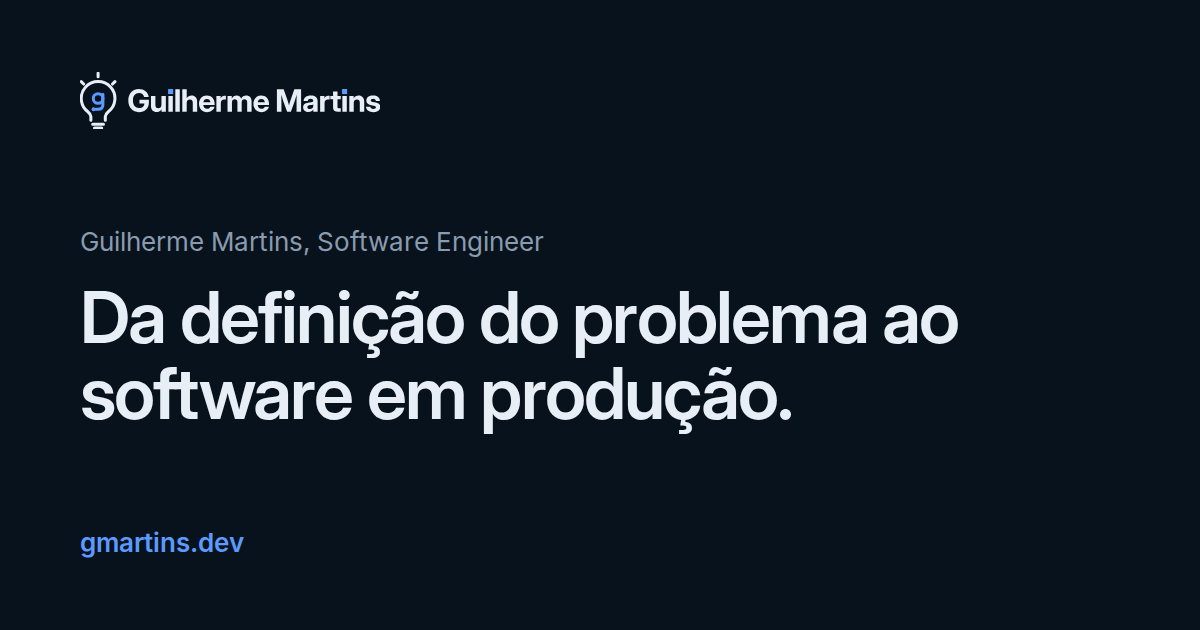
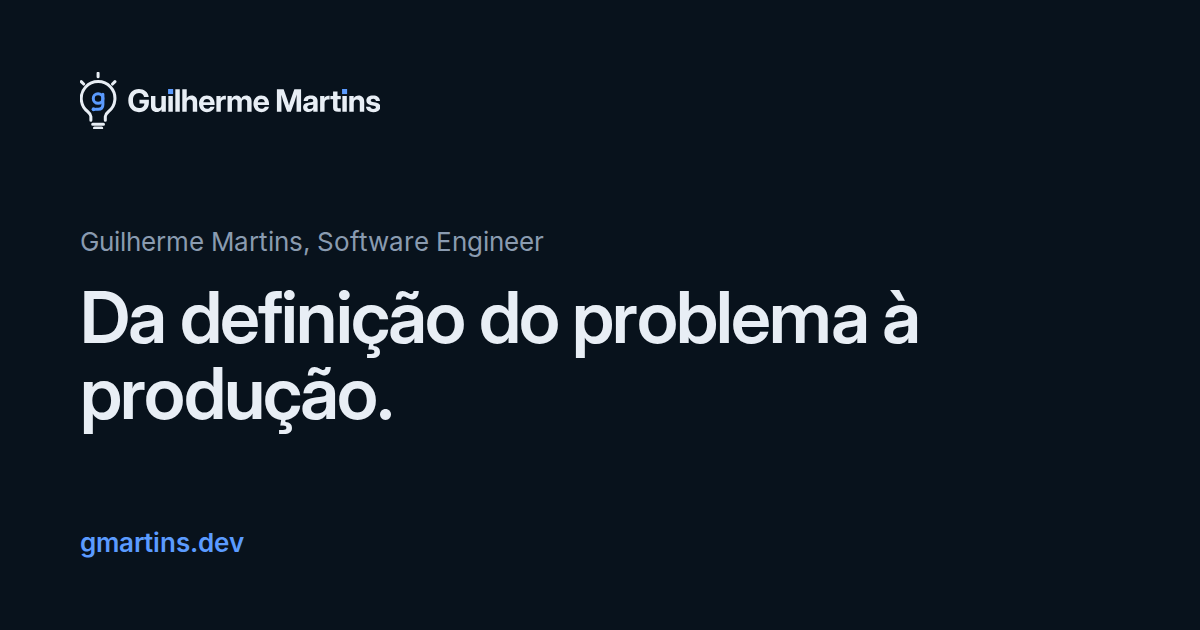
feat(content): update the hero intro, identity map order and principles
- New hero intro in both languages (Brazilian and international teams;
  fintech, SaaS, AI, healthcare, real estate, creative technology, all
  backed by the experience list). The PT headline becomes "Da definição
  do problema à produção.", as on the PT social card master.
- Identity map order: Full-stack Engineering, Product Engineering,
  Software Architecture, Agentic Engineering, AI-powered Products,
  Communication & Collaboration. AI-powered Features is renamed AI-powered
  Products (PT: Produtos com IA integrada).
- New closing line: Product thinking · Engineering rigor · AI leverage ·
  Human judgment, with a new grounding sentence.
- Positioning docs follow the same changes; the PT home social card is
  re-rendered.

Changed region(s): [[0.0617, 0.573, 0.6783, 0.6937], [0.7708, 0.4825, 0.8017, 0.5429], [0.74, 0.4524, 0.7708, 0.4825]]

diff --git a/src/content/copy.ts b/src/content/copy.ts
@@ -164,18 +164,18 @@ export const copy = {
 	home: {
 		headline: {
 			en: "From problem definition to production.",
-			"pt-BR": "Da definição do problema ao software em produção.",
+			"pt-BR": "Da definição do problema à produção.",
 		},
 		intro: {
 			en: [
 				"I'm Guilherme Martins, a Software Engineer focused on product engineering and software architecture.",
 				"I build and evolve full-stack products, integrating AI capabilities where they make sense. I use coding agents throughout the development lifecycle in a spec-driven workflow with scoped tasks, tests, and human review.",
-				"I've worked with teams in Brazil and the UK across fintech, AI-driven cybersecurity, and healthcare, among others.",
+				"I've partnered with Brazilian and international teams across diverse domains, including fintech, SaaS, AI-powered solutions, healthcare, real estate, and creative technology.",
 			],
 			"pt-BR": [
-				"Sou Guilherme Martins, Software Engineer com foco em engenharia de produto e arquitetura de software.",
+				"Sou Guilherme Martins, engenheiro de software com foco em engenharia de produto e arquitetura de software.",
 				"Construo e evoluo produtos full-stack, integrando funcionalidades de IA quando fazem sentido. Uso coding agents ao longo do ciclo de desenvolvimento, em um processo orientado por especificações, com tarefas delimitadas, testes e revisão humana.",
-				"Já trabalhei com equipes no Brasil e no Reino Unido em fintech, cibersegurança com IA e saúde, entre outros.",
+				"Já colaborei com equipes brasileiras e internacionais em diferentes áreas, incluindo fintech, SaaS, soluções com IA, saúde, mercado imobiliário e tecnologia criativa.",
 			],
 		},
 		workCta: { en: "See the cases", "pt-BR": "Ver cases" },
@@ -207,6 +207,16 @@ export const copy = {
 				"pt-BR": "Mapa de identidade profissional",
 			},
 			dimensions: [
+				{
+					title: {
+						en: "Full-stack Engineering",
+						"pt-BR": "Engenharia full-stack",
+					},
+					line: {
+						en: "Frontend · backend · APIs · system integration",
+						"pt-BR": "Frontend · backend · APIs · integração de sistemas",
+					},
+				},
 				{
 					title: {
 						en: "Product Engineering",
@@ -242,22 +252,12 @@ export const copy = {
 				},
 				{
 					title: {
-						en: "AI-powered Features",
-						"pt-BR": "Funcionalidades com IA",
+						en: "AI-powered Products",
+						"pt-BR": "Produtos com IA integrada",
 					},
 					line: {
 						en: "LLM integration · tool use · guardrails",
 						"pt-BR": "Integração com LLMs · tool use · guardrails",
-					},
-				},
-				{
-					title: {
-						en: "Full-stack Engineering",
-						"pt-BR": "Engenharia full-stack",
-					},
-					line: {
-						en: "Frontend · backend · APIs · system integration",
-						"pt-BR": "Frontend · backend · APIs · integração de sistemas",
 					},
 				},
 				{
@@ -273,12 +273,14 @@ export const copy = {
 				},
 			],
 			principles: {
-				en: "Product thinking · engineering rigor · human judgment",
-				"pt-BR": "Visão de produto · rigor de engenharia · julgamento humano",
+				en: "Product thinking · Engineering rigor · AI leverage · Human judgment",
+				"pt-BR":
+					"Visão de produto · Rigor de engenharia · IA como acelerador · Julgamento humano",
 			},
 			grounding: {
-				en: "Every concept is grounded in engineering practice.",
-				"pt-BR": "Cada conceito se apoia na prática de engenharia.",
+				en: "AI amplifies my capabilities; critical thinking and experience guide my decisions.",
+				"pt-BR":
+					"A IA amplia minhas capacidades; o pensamento crítico e a experiência orientam minhas decisões.",
 			},
 		},
 	},

diff --git a/e2e/pages.ts b/e2e/pages.ts
@@ -16,7 +16,7 @@ export const pages = [
 	{
 		path: "/pt-br",
 		lang: "pt-BR",
-		h1: "Da definição do problema ao software em produção.",
+		h1: "Da definição do problema à produção.",
 	},
 	{ path: "/pt-br/cases", lang: "pt-BR", h1: "Cases" },
 	{

diff --git a/docs/positioning.md b/docs/positioning.md
@@ -52,23 +52,24 @@ verification and accountability stay human.**
 ## Identity map: six dimensions
 
 Reference for the hero art and for brand consistency. **Software Engineer** is
-the single professional identity at the center: Guilherme Martins, Software
-Engineer, Belo Horizonte, Brazil. The six branches are complementary
+the single professional identity at the center, shown by the portrait alone
+(the hero intro names him). The six branches are complementary
 dimensions of the same engineering practice, not separate titles. The goal is
 not to list every technology or skill, but to say what kind of engineer he is,
 how he approaches software and what he brings to a team.
 
 | Dimension | Descriptor (short line for art) | What it means |
 | --- | --- | --- |
+| Full-stack Engineering | Frontend · backend · APIs · system integration | Software across application layers, connecting interfaces, services, data and external systems with the whole product experience in mind |
 | Product Engineering | Problem framing · end-to-end ownership · product iteration | Understanding problems before implementing solutions, owning the product lifecycle and improving software from user needs and product goals |
 | Software Architecture | System design · technical trade-offs · reliability | Maintainable systems, clear boundaries and integrations, and deliberate decisions on consistency, reliability and long-term evolution |
 | Agentic Engineering | Coding agents · spec-driven workflows · verification | Coding agents across the lifecycle through explicit specifications, bounded tasks, tests, quality gates, verification and human review |
-| AI-powered Features | LLM integration · tool use · guardrails | AI capabilities integrated into products, connecting models and tools to real workflows with controls, permissions and human oversight |
-| Full-stack Engineering | Frontend · backend · APIs · system integration | Software across application layers, connecting interfaces, services, data and external systems with the whole product experience in mind |
+| AI-powered Products | LLM integration · tool use · guardrails | AI capabilities integrated into products, connecting models and tools to real workflows with controls, permissions and human oversight |
 | Communication & Collaboration | International teams · fluent English · clear communication | Working across disciplines and cultures, communicating technical ideas and trade-offs clearly, and building shared understanding in international teams |
 
-Closing line for the art: *Product thinking · engineering rigor · human
-judgment.* Every concept is grounded in engineering practice.
+Closing line for the art: *Product thinking · Engineering rigor · AI
+leverage · Human judgment.* AI amplifies my capabilities; critical thinking
+and experience guide my decisions.
 
 **Cross-cutting principles**
 
@@ -76,13 +77,15 @@ judgment.* Every concept is grounded in engineering practice.
   outcomes.
 - **Engineering rigor:** make deliberate technical decisions and verify what
   is delivered.
+- **AI leverage:** use AI to amplify what he can deliver, with critical
+  thinking and experience deciding what ships.
 - **Human judgment:** take responsibility for decisions, quality and the use
   of AI.
 - **Collaborative ownership:** communicate clearly, work across boundaries
   and move shared work forward.
 
 **Visual hierarchy.** Product Engineering and Software Architecture set the
-core positioning. Agentic Engineering and AI-powered Features carry the
+core positioning. Agentic Engineering and AI-powered Products carry the
 distinctive capabilities. Full-stack Engineering shows implementation breadth.
 Communication & Collaboration is the human and international dimension. The
 art emphasizes branch names, keeps each supporting line short and leaves out
@@ -199,8 +202,8 @@ The Brazilian Portuguese sentences, adapted to that market, are in
 
 | Element | Where | Guidance |
 | --- | --- | --- |
-| Title, metadata, intro, social cards | `copy.meta` and `copy.home` in `src/content/copy.ts` | Software Engineer as the identity; product engineering, architecture, agentic engineering and AI integration in plain language. The intro names Brazil and the UK only; Spain stays in the International context evidence |
-| Hero identity map | `copy.home.identityMap`, rendered by `src/components/identity-map.tsx` | The six dimensions above, in their order; the center reuses `profile.name`, `copy.meta.role` and `profile.location`. Communication & Collaboration stays one of the six, never a separate track. Layout rules in `DESIGN.md` |
+| Title, metadata, intro, social cards | `copy.meta` and `copy.home` in `src/content/copy.ts` | Software Engineer as the identity; product engineering, architecture, agentic engineering and AI integration in plain language. The intro says "Brazilian and international teams" and names domains backed by the experience list (fintech, SaaS, AI, healthcare, real estate, creative technology) |
+| Hero identity map | `copy.home.identityMap`, rendered by `src/components/identity-map.tsx` | The six dimensions above, in their order (Full-stack Engineering first, owner's decision 2026-10-27); the center is the portrait only, with no caption. Communication & Collaboration stays one of the six, never a separate track. Layout rules in `DESIGN.md` |
 | Capabilities | `copy.capabilities` | Order: product engineering, software architecture, agentic engineering, AI-powered product features |
 | Case studies | `caseStudies` in `src/content/work.ts` | Order (owner's decision, 2026-10-25): the anonymized AI-first platform (current professional work: architecture and AI integration), Priorize.me (product ownership), sdd-agentic-flow (agentic engineering). The payments API, a hiring challenge, is under More projects; the architecture capability links to it |
 | Experience and education | `experience` and `education` in `src/content/profile.ts` | Actual role titles; the specialization in progress; client work anonymous where needed |

diff --git a/docs/positioning.pt-br.md b/docs/positioning.pt-br.md
@@ -49,8 +49,8 @@ responsabilidade continuam humanos.**
 ## Mapa de identidade: seis dimensões
 
 Referência para a arte do hero e para a consistência da marca. **Software
-Engineer** é a única identidade profissional, no centro: Guilherme Martins,
-Software Engineer, Belo Horizonte, Brasil. Os seis ramos são dimensões
+Engineer** é a única identidade profissional, no centro, representada só pelo
+retrato (a intro do hero traz o nome). Os seis ramos são dimensões
 complementares da mesma prática de engenharia, não títulos separados. O
 objetivo não é listar toda tecnologia ou habilidade, e sim dizer que tipo de
 engenheiro ele é, como aborda software e o que leva para um time. A tabela
@@ -61,15 +61,18 @@ do dono em 2026-10-27), mantendo em inglês os termos que o mercado usa assim
 
 | Dimensão | Descritor (linha curta da arte) | O que significa |
 | --- | --- | --- |
+| Full-stack Engineering | Frontend · backend · APIs · system integration | Software em todas as camadas da aplicação, conectando interfaces, serviços, dados e sistemas externos com a experiência completa do produto em mente |
 | Product Engineering | Problem framing · end-to-end ownership · product iteration | Entender o problema antes de implementar a solução, assumir o ciclo de vida do produto e evoluir o software a partir das necessidades dos usuários e dos objetivos do produto |
 | Software Architecture | System design · technical trade-offs · reliability | Sistemas sustentáveis, fronteiras e integrações claras e decisões deliberadas sobre consistência, confiabilidade e evolução de longo prazo |
 | Agentic Engineering | Coding agents · spec-driven workflows · verification | Coding agents ao longo do ciclo, com especificações explícitas, tarefas delimitadas, testes, quality gates, verificação e revisão humana |
-| AI-powered Features | LLM integration · tool use · guardrails | Capacidades de IA integradas a produtos, conectando modelos e ferramentas a fluxos reais, com controles, permissões e supervisão humana |
-| Full-stack Engineering | Frontend · backend · APIs · system integration | Software em todas as camadas da aplicação, conectando interfaces, serviços, dados e sistemas externos com a experiência completa do produto em mente |
+| AI-powered Products | LLM integration · tool use · guardrails | Capacidades de IA integradas a produtos, conectando modelos e ferramentas a fluxos reais, com controles, permissões e supervisão humana |
 | Communication & Collaboration | International teams · fluent English · clear communication | Trabalhar com pessoas de outras disciplinas e culturas, comunicar ideias e trade-offs técnicos com clareza e construir entendimento compartilhado em times internacionais |
 
-Frase de fechamento da arte: *Product thinking · engineering rigor · human
-judgment.* Todo conceito se apoia em prática de engenharia.
+Frase de fechamento da arte: *Product thinking · Engineering rigor · AI
+leverage · Human judgment.* No site em português: "Visão de produto · Rigor
+de engenharia · IA como acelerador · Julgamento humano" e "A IA amplia
+minhas capacidades; o pensamento crítico e a experiência orientam minhas
+decisões".
 
 **Princípios transversais**
 
@@ -77,13 +80,15 @@ judgment.* Todo conceito se apoia em prática de engenharia.
   importam.
 - **Rigor de engenharia:** tomar decisões técnicas deliberadas e verificar o
   que é entregue.
+- **IA como acelerador:** usar IA para ampliar o que ele entrega, com
+  pensamento crítico e experiência decidindo o que vai para produção.
 - **Julgamento humano:** assumir responsabilidade por decisões, qualidade e
   pelo uso de IA.
 - **Ownership colaborativo:** comunicar com clareza, trabalhar além das
   fronteiras e fazer o trabalho compartilhado avançar.
 
 **Hierarquia visual.** Product Engineering e Software Architecture definem o
-posicionamento central. Agentic Engineering e AI-powered Features carregam as
+posicionamento central. Agentic Engineering e AI-powered Products carregam as
 capacidades distintivas. Full-stack Engineering mostra amplitude de
 implementação. Communication & Collaboration é a dimensão humana e
 internacional. A arte destaca os nomes dos ramos, mantém cada linha de apoio
@@ -201,7 +206,7 @@ por termo.
 | Elemento | Onde | Orientação |
 | --- | --- | --- |
 | Título, meta, intro | `copy.meta` e `copy.home` em `src/content/copy.ts` | Título em PT: "Guilherme Martins \| Software Engineer"; a meta começa do mesmo jeito. O cartão social em PT usa o mesmo termo (`copy.meta.role`) |
-| Mapa de identidade no hero | `copy.home.identityMap`, renderizado por `src/components/identity-map.tsx` | As seis dimensões acima, na mesma ordem; o centro reutiliza `profile.name`, `copy.meta.role` e `profile.location`. Comunicação e colaboração seguem como uma das seis, nunca uma trilha à parte. Regras de layout em `DESIGN.md` |
+| Mapa de identidade no hero | `copy.home.identityMap`, renderizado por `src/components/identity-map.tsx` | As seis dimensões acima, na mesma ordem (Full-stack Engineering primeiro, decisão do dono em 2026-10-27); o centro é só o retrato, sem legenda. Comunicação e colaboração seguem como uma das seis, nunca uma trilha à parte. Regras de layout em `DESIGN.md` |
 | Capacidades e estudos de caso | `copy.capabilities`, `caseStudies` | Mesma ordem da versão em inglês: a plataforma AI-first, Priorize.me e sdd-agentic-flow. A API de pagamentos fica em Mais projetos |
 | Formação | `education` em `src/content/profile.ts` | "Especialização em Arquitetura de Software Distribuído", PUC Minas, em andamento |
 | Contato | `copy.contact` | "Para engenharia de produto, arquitetura ou colaboração em open source…". Sem linguagem de busca de emprego ou disponibilidade no site |
